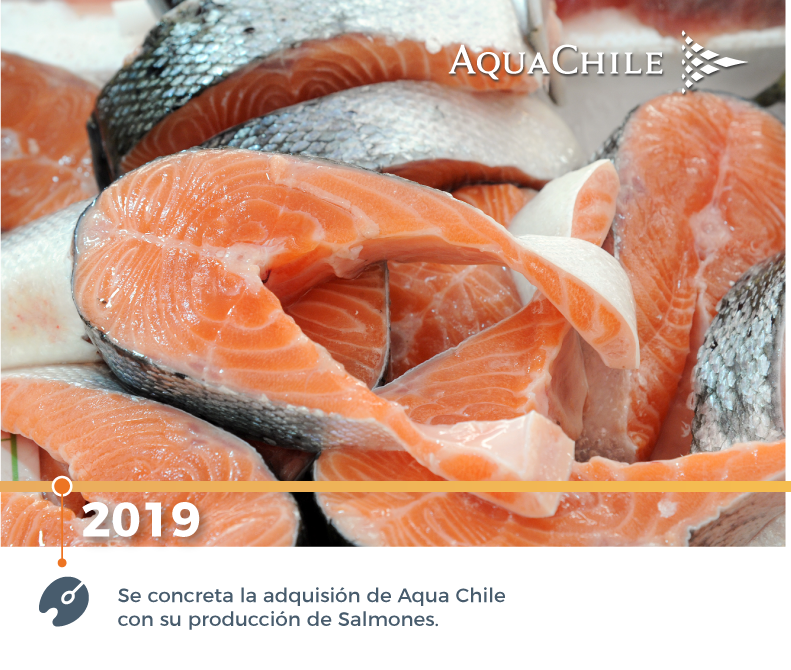
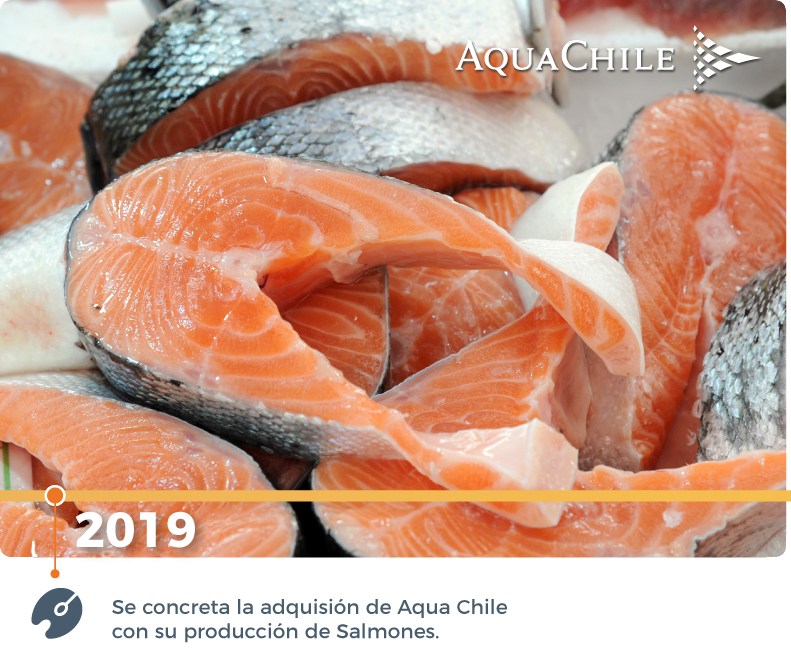
change image carousel

diff --git a/src/components/Molecules/ProcessSlider/index.js b/src/components/Molecules/ProcessSlider/index.js
@@ -10,7 +10,7 @@ const useStyles = makeStyles((theme) => ({
    
   },
   img: {
-    height: "600px",
+    height: "100%",
     width: "100%",
   
 
